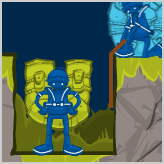
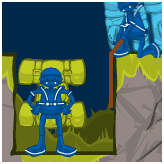
AMIS replaces NOUS

Changed region(s): [[0.0, 0.0, 1.0, 1.0]]

diff --git a/js/states/Game.min.js b/js/states/Game.min.js
@@ -1,1 +1,1 @@
-function create_goats(e){goats=Climb.game.add.group();for(var a=0;e>a;a++)create_goat(a)}function create_goat(e){var a=Climb.game.add.sprite(-60,0,"fpo-circle");a.anchor.set(0,1),a.width=a.height=10,a.alpha=0,a.grounded=!1,Climb.game.physics.arcade.enable([a]),a.body.gravity.y=GRAVITY,a.body.bounce.set(.2);var t=Climb.game.add.sprite(a.x,a.y,"goat");t.anchor.set(.5,1),t.animations.add("walk",[1,2,3,4,5,6,7],20,!0),t.animations.add("hop",[8,9,10,11,12],20,!0),a.art=t,goats.add(a),delay=0+1e4*e,setTimeout(function(){reset_goat(a)},delay)}function update_goats(){for(var e=0,a=goats.length;a>e;e++)update_goat(goats.children[e])}function update_goat(e){e.art.x=e.x,e.art.y=e.y,void 0!=e.lastX&&e.lastX==e.x&&e.grounded&&(e.body.velocity.y=-150),e.lastX=e.x;var a=Climb.game.physics.arcade.collide(goats,platforms,update_goat_platform,null,this);a||1==e.grounded&&(e.grounded=!1)}function update_goat_platform(e){e.x>1400?reset_goat(e):(e.grounded||(e.grounded=!0),e.art.animations.play("walk"),Math.abs(e.body.velocity.x)<30&&(e.body.velocity.x+=e.vX),e.body.velocity.y+=e.vY)}function reset_goat(e){if(goat_respawn){e.x=-60,e.y=900;var a=2*Math.round(Math.random())-1;a=1,e.art.width=Math.abs(e.art.width)*a*-1,e.vX=2*a,e.vY=-3,e.body.velocity.x=0,e.body.velocity.y=0}}function clear_goats(){for(var e=goats.length,a=e-1;a>=0;a--)null!=goats.children[a]&&(goats.children[a].art.destroy(),goats.children[a].destroy());goats=[]}function createPads(){pads=Climb.game.add.group(),pads.enableBody=!0,tPad=Climb.game.add.sprite(40,1096,"fpo-square"),createPad(tPad,"T",16541508),ePad=Climb.game.add.sprite(110,1096,"fpo-square"),createPad(ePad,"E",4900843),aPad=Climb.game.add.sprite(180,1096,"fpo-square"),createPad(aPad,"A",12700963),mPad=Climb.game.add.sprite(250,1096,"fpo-square"),createPad(mPad,"M",9668740),tPad2=Climb.game.add.sprite(1e3,396,"fpo-square"),createPad(tPad2,"T",16541508),ePad2=Climb.game.add.sprite(1070,396,"fpo-square"),createPad(ePad2,"E",4900843),aPad2=Climb.game.add.sprite(1140,396,"fpo-square"),createPad(aPad2,"A",12700963),mPad2=Climb.game.add.sprite(1210,396,"fpo-square"),createPad(mPad2,"M",9668740)}function createPad(e,a,t){e.width=69,e.height=10,e.name=a,e.tint=t,e.anchor.set(.5,1),e.name=String(e),pads.add(e)}function createOptionsScreen(){optionsScreen=Climb.game.add.group(),optionsScreen.fixedToCamera=!0;var e,a=Climb.game.add.graphics(0,0);a.beginFill(9668740,1),a.boundsPadding=0,a.drawRect(0,0,settings.WIDTH,settings.HEIGHT),a.alpha=.9,a.inputEnabled=!0,optionsScreen.add(a),e="Options",optionTitle=Climb.game.add.text(settings.WIDTH/2,settings.HEIGHT/2-200,e,h1_style),optionTitle.anchor.set(.5),optionsScreen.add(optionTitle),e="Votre jeu a été suspendu.",optionSub=Climb.game.add.text(settings.WIDTH/2,settings.HEIGHT/2-140,e,h3_style),optionSub.anchor.set(.5),optionsScreen.add(optionSub);var t=Climb.game.add.sprite(settings.WIDTH/2,settings.HEIGHT/2-40,"square");createBt(t,"Reprendre",!1),t.events.onInputUp.add(function(){optionsHide()},this),optionsScreen.add(t),optionsScreen.add(t.label),optionsScreen.add(t.border);var i=Climb.game.add.sprite(settings.WIDTH/2,settings.HEIGHT/2+20,"square");createBt(i,"Recommencer",!1),i.events.onInputUp.add(function(){optionsHide(),gameRestart()},this),optionsScreen.add(i),optionsScreen.add(i.label),optionsScreen.add(i.border);var o=Climb.game.add.sprite(settings.WIDTH/2,settings.HEIGHT/2+140,"square");createBt(o,"Menu principal","MainMenu"),optionsScreen.add(o),optionsScreen.add(o.label),optionsScreen.add(o.border);var r=Climb.game.add.sprite(settings.WIDTH/2,settings.HEIGHT/2+200,"square");createBt(r,"Comment jouer","Instructions"),optionsScreen.add(r),optionsScreen.add(r.label),optionsScreen.add(r.border);var n=Climb.game.add.sprite(settings.WIDTH-29,29,"square");createBt(n,"icon-x",!1,"circle"),n.events.onInputUp.add(function(){optionsHide()},this),optionsScreen.add(n),optionsScreen.add(n.label),optionsScreen.add(n.border),optionsScreen.visible=!1}function optionsShow(){gamePause(!0),optionsScreen.visible=!0}function optionsHide(){gamePause(!1),optionsScreen.visible=!1}function gamePause(e){if(gamePaused=e,e){for(var a=0;4>a;a++)team[a].body.allowGravity=!e,team[a].currentVelocity=team[a].body.velocity,team[a].body.velocity=0;pauseTimer()}else{for(var a=0;4>a;a++)team[a].body.allowGravity=!e,team[a].body.velocity=team[a].currentVelocity;unpauseTimer()}}function createWinText(){winMessage=Climb.game.add.group(),winMessage.fixedToCamera=!0;var e=Climb.game.add.graphics(0,0);e.inputEnabled=!0,e.beginFill(0,1),e.boundsPadding=0,e.drawRect(0,Climb.game.height/2-130,Climb.game.width,325),e.alpha=.6,winMessage.add(e);var a="Ton équipe a\natteint le sommet!";winText=Climb.game.add.text(settings.WIDTH/2,settings.HEIGHT/2-40,a,h2_style),winText.anchor.set(.5),winMessage.add(winText),ContinueBt=Climb.game.add.sprite(settings.WIDTH/2,settings.HEIGHT/2+60,"square"),createBt(ContinueBt,"Formidable ! Continuer","Finish"),winMessage.add(ContinueBt),winMessage.add(ContinueBt.label),winMessage.add(ContinueBt.border),AgainBt=Climb.game.add.sprite(settings.WIDTH/2,settings.HEIGHT/2+120,"square"),createBt(AgainBt,"Recommencer",!1),AgainBt.events.onInputUp.add(function(){winMessage.visible=!1,trackEvent("Play Again clicked",Vent.game.state.getCurrentState().key+" screen"),gameRestart()},this),winMessage.add(AgainBt),winMessage.add(AgainBt.label),winMessage.add(AgainBt.border),winMessage.visible=!1}function createBackground(){Climb.game.stage.backgroundColor="#4ac7eb",background=Climb.game.add.group();var e=background.create(0,0,"bg-mountains");e.height=settings.HEIGHT,e.width=settings.WIDTH,e.anchor.set(0),background.fixedToCamera=!0}function createPlatforms(){platforms=Climb.game.add.group(),platforms.enableBody=!0;var e=platforms.create(-100,Climb.game.world.height-100,"square");e.width=Climb.game.world.width+200,e.height=100,e.body.immovable=!0,e.tint=groundColour,e.name="ground",e.alpha=0,createPlatform(300,1e3,1100,1),createPlatform(400,900,150,1),createPlatform(650,900,750,1),createPlatform(800,700,600,2),createPlatform(900,400,500,3),topPlatform=platforms.children[5];var a=Climb.game.add.sprite(0,Climb.game.world.height+45,"fg-mountains");a.anchor.set(0,1)}function createPlatform(e,a,t,i){var o=100*i,r=platforms.children.length,n=platforms.create(e,a,"square");n.name="ledge"+r,n.width=t,n.height=o,n.hx=i,n.ropes=[],n.body.immovable=!0,n.alpha=0}function createClimbers(){climbers=Climb.game.add.group(),climbers.enableBody=!0;var e=Climb.game.world.height-300;T=climbers.create(4,e,"av-t"),T.key=T_Key,T.button=T_button,T.name="N",createClimber(T),E=climbers.create(74,e,"av-e"),E.key=E_Key,E.button=E_button,E.name="O",createClimber(E),A=climbers.create(144,e,"av-a"),A.key=A_Key,A.button=A_button,A.name="U",createClimber(A),M=climbers.create(214,e,"av-m"),M.key=M_Key,M.button=M_button,M.name="S",createClimber(M)}function createClimber(e){e.width=72,e.height=100,e.body.collideWorldBounds=!0,e.body.gravity.y=GRAVITY,e.tint=defaultColour,e.platform=platforms.children[0],e.rope,e.moving=!1,e.lastX=e.x,e.lastY=e.y,e.keyUp=!1,e.keyDown=!1,e.holdingUp=[],e.frame=1,e.animations.add("hop",[3,4,5,6,7,8,9],30,!1),team.push(e)}function createRopes(){ropes=Climb.game.add.group(),ropes.enableBody=!0}function createRope(e){var a=e.platform,t=a.ropes.length;if(t<e.platform.hx){var i,o=e.platform.x-2*ROPE_WIDTH;0===t?i=e.y+e.height/2:(i=a.ropes[t-1].rope.y+100,o=a.ropes[t-1].rope.x);var r=ropes.create(o,i,"square");r.tint=9127187,r.width=ROPE_WIDTH,r.height=e.height,r.climber=e,r.platform=a,e.rope=r,e.platform.ropes.push(e),r.alpha=0,beautifyRopes()}}function beautifyRopes(){if(null!=ropeArt&&(ropeArt.destroy(),ropeArt=void 0),ropes.children.length>0)for(var e,a,t,i=0,o=ropes.children.length;o>i;i++)if(e=ropes.children[i],a=e.climber,t=a.platform,rNum=t.ropes.length,50===Math.round(e.climber.rope.y-t.ropes[0].y)){var r,n=t.y-50+100*rNum,m=t.ropes[0].x+21,d=a.y+a.height-18;ropeArt=Climb.game.add.graphics(0,0),ropeArt.lineStyle(4,9127187),ropeArt.moveTo(m,d),m<t.x-4?ropeArt.lineTo(m,n):(r=t.x-4,ropeArt.lineTo(t.x-4,t.y-4),ropeArt.lineTo(r,n))}}function rebuildRope(e){for(var a,t,i,o=e.ropes.length,r=0;o>r;r++)a=e.ropes[r],t=a.rope,0==r&&(i=a.y+a.height/2),t.x=e.x-2*ROPE_WIDTH,t.y=i+r*a.height}function deleteRope(e){if(void 0!=e.rope){e.rope.destroy(),e.rope=void 0;for(var a,t=e.platform,i=t.ropes.length,o=0;i>o;o++)t.ropes[o]==e&&(a=o);1>=i?t.ropes=[]:(t.ropes.splice(a,1),rebuildRope(t))}beautifyRopes()}function createInputs(){createInputKeys(),createInputButtons()}function createInputKeys(){T_Key=Climb.game.input.keyboard.addKey(Phaser.Keyboard.N),T_Key.onDown.add(keyDown,this),T_Key.onUp.add(keyUp,this),T_Key.climber=T,T.key=T_Key,E_Key=Climb.game.input.keyboard.addKey(Phaser.Keyboard.O),E_Key.onDown.add(keyDown,this),E_Key.onUp.add(keyUp,this),E_Key.climber=E,E.key=E_Key,A_Key=Climb.game.input.keyboard.addKey(Phaser.Keyboard.U),A_Key.onDown.add(keyDown,this),A_Key.onUp.add(keyUp,this),A_Key.climber=A,A.key=A_Key,M_Key=Climb.game.input.keyboard.addKey(Phaser.Keyboard.S),M_Key.onDown.add(keyDown,this),M_Key.onUp.add(keyUp,this),M_Key.climber=M,M.key=M_Key,Left_Key=Climb.game.input.keyboard.addKey(Phaser.Keyboard.LEFT),Left_Key.onUp.add(leftKeyUp,this),Right_Key=Climb.game.input.keyboard.addKey(Phaser.Keyboard.RIGHT),Right_Key.onUp.add(rightKeyUp,this)}function createInputButtons(){userinterface=Climb.game.add.group(),userinterface.fixedToCamera=!0,touchinterface=Climb.game.add.group(),touchinterface.fixedToCamera=!0;Climb.game.world.height-50;T_button=Climb.game.add.sprite(50,Climb.game.height-200,"circle"),createButton(T_button,T),E_button=Climb.game.add.sprite(150,Climb.game.height-50,"circle"),createButton(E_button,E),A_button=Climb.game.add.sprite(Climb.game.width-150,Climb.game.height-50,"circle"),createButton(A_button,A),M_button=Climb.game.add.sprite(Climb.game.width-50,Climb.game.height-200,"circle"),createButton(M_button,M),toggleLR=Climb.game.add.sprite(Climb.game.width-89,29,"square"),createBt(toggleLR,"icon-walk-right",!1,"circle"),toggleLR.events.onInputUp.add(toggleDirection,this),userinterface.add(toggleLR.group),optionsBt=Climb.game.add.sprite(Climb.game.width-29,29,"square"),createBt(optionsBt,"icon-menu",!1,"circle"),optionsBt.events.onInputUp.add(optionsShow,this),userinterface.add(optionsBt.group),Climb.game.device.touch&&(touchinterface.visible=!1)}function toggleDirection(){X_MOVE=-1*X_MOVE,X_MOVE_EDGE=-1*X_MOVE_EDGE,toggleLR.label.width=X_MOVE>0?Math.abs(toggleLR.label.width):-1*toggleLR.label.width}function leftKeyUp(){X_MOVE>0&&(toggleLR.label.width=-1*Math.abs(toggleLR.label.width),X_MOVE=-1*X_MOVE,X_MOVE_EDGE=-1*X_MOVE_EDGE)}function rightKeyUp(){X_MOVE>0||(toggleLR.label.width=Math.abs(toggleLR.label.width),X_MOVE=-1*X_MOVE,X_MOVE_EDGE=-1*X_MOVE_EDGE)}function toggleDirectionReset(){X_MOVE=Math.abs(X_MOVE),X_MOVE_EDGE=Math.abs(X_MOVE_EDGE),toggleLR.width=Math.abs(toggleLR.width)}function createButton(e,a){e.width=100,e.height=100,e.anchor.set(.5),e.alpha=.2,e.inputEnabled=!0,e.input.useHandCursor=!0,e.input.priorityID=buttons.length,e.events.onInputDown.add(buttonDown,this),e.events.onInputUp.add(buttonUp,this),e.climber=a,a.button=e,buttons.push(e);var t=Climb.game.add.graphics(0,0);t.lineStyle(2,16777215,1),t.drawCircle(e.x,e.y,e.width,e.height),t.boundsPadding=0,t.alpha=1,e.border=t;var i=Climb.game.add.text(e.x,e.y,a.name,touch_button_style);i.anchor.set(.5),e.label=i,touchinterface.add(e),touchinterface.add(e.border),touchinterface.add(e.label)}function createTimer(){timer=Climb.game.add.text(15,34,"0.00",h2_style),timer.anchor.set(0,.5),userinterface.add(timer),best=Climb.game.add.text(17,58,"MEILLEUR : "+bestTime,copyright_style),best.anchor.set(0,.5),userinterface.add(best),null==bestTime&&(best.text="MEILLEUR : 0.0")}function startTimer(){gameStarted=!0,timeStart=(new Date).getTime()/1e3}function updateTimer(){if(gameStarted){if(!gameComplete){var e=(new Date).getTime()/1e3;currentTime=(e-(timeStart+timePaused)).toFixed(1),timer.text=currentTime}}else timer.text="0.0"}function pauseTimer(){pauseStart=(new Date).getTime()/1e3}function unpauseTimer(){pauseEnd=(new Date).getTime()/1e3,gameStarted&&(timePaused=Number((Number(timePaused)+pauseEnd-pauseStart).toFixed(2)))}function updateClimbers(){Climb.game.physics.arcade.collide(climbers,platforms,updateClimberPlatform,null,this);for(var e=0,a=team.length;a>e;e++)updateClimber(team[e])}function updateClimber(e){e.lastX=e.x,e.lastY=e.y,e.body.velocity.x>0?e.body.velocity.x-=5:e.body.velocity.x<0?e.body.velocity.x+=5:e.body.velocity.x=0,0!==e.body.velocity.x||0!==e.body.velocity.y?e.moving=!0:(e.moving=!1,updatePads()),e.keyUp?(deleteRope(e),e.body.velocity.x=e.x<e.platform.x?X_MOVE_EDGE:X_MOVE,e.body.touching.down&&(e.body.velocity.y+=Y_HOP),Climb.game.physics.arcade.overlap(e,climbers,overlapClimbersKeyUp),Climb.game.physics.arcade.overlap(e,ropes,overlapRope)):e.keyDown&&(!e.moving&&e.x<e.platform.x&&void 0===e.rope&&(createRope(e),beautifyRopes()),Climb.game.physics.arcade.overlap(e,climbers,overlapClimbersKeyIsDown)),updateClimberHoldingUpList(e),updateClimberDisplay(e)}function updatePads(){T.moving||(Climb.game.physics.arcade.overlap(T,tPad,function(){T.frame=0}),Climb.game.physics.arcade.overlap(T,tPad2,function(){T.frame=0})),E.moving||(Climb.game.physics.arcade.overlap(E,ePad,function(){E.frame=0}),Climb.game.physics.arcade.overlap(E,ePad2,function(){E.frame=0})),A.moving||(Climb.game.physics.arcade.overlap(A,aPad,function(){A.frame=0}),Climb.game.physics.arcade.overlap(A,aPad2,function(){A.frame=0})),M.moving||(Climb.game.physics.arcade.overlap(M,mPad,function(){M.frame=0}),Climb.game.physics.arcade.overlap(M,mPad2,function(){M.frame=0}))}function updateClimberHoldingUpList(e){for(var a=0,t=e.holdingUp.length;t>a;a++){var i=e.holdingUp[a];(i.x>e.x+e.width||i.x<e.x-e.width)&&(i.body.allowGravity=!0)}}function updateClimberDisplay(e){e.keyDown?(e.isPlaying&&e.animations.stop("hop"),void 0!==e.rope?e.frame=12:e.moving||void 0!==e.rope?e.moving||(e.animations.play("hop"),e.animations.currentAnim.onComplete.addOnce(function(){e.frame=1},this)):e.frame=2):e.keyUp&&(climbers.bringToTop(e),e.animations.play("hop"),e.animations.currentAnim.onComplete.addOnce(function(){e.frame=1},this),e.keyUp=!1)}function updateClimberPlatform(e,a){!e.moving&&e.platform!=a&&e.y+50<a.y&&(e.platform=a,gameCheckWin())}function overlapClimbersKeyUp(e,a){for(var t=0,i=e.holdingUp.length;i>t;t++)e.holdingUp[t].body.allowGravity=!0,a.body.velocity.y=-20,a.moving=!0;e.holdingUp=[],e!==a&&!a.moving&&a.keyDown&&void 0===a.rope&&e.moving&&Math.abs(e.x-a.x)<=e.width/2&&(e.body.velocity.y=Y_CLIMB,e.body.velocity.x=X_MOVE/2)}function overlapClimbersKeyIsDown(e,a){e!==a&&!e.moving&&e.keyDown&&a.y<=e.y-a.height&&(a.y=e.y-a.height,a.body.velocity.y=0,a.body.allowGravity=!1,e.holdingUp.push(a),a.moving=!1)}function overlapRope(e){e.body.allowGravity=!0,e.body.velocity.y=Y_CLIMB,e.moving=!0}function gameRestart(){clear_goats(),create_goats(),winText.visible=!1,Climb.game.device.touch&&(touchinterface.visible=!0),Climb.game.camera.x=0,Climb.game.camera.y=Climb.game.world.height-settings.HEIGHT,T.x=T.lastX=4,T.y=T.lastY=Climb.game.world.height-300,T.platform="ground",E.x=E.lastX=74,E.y=E.lastY=Climb.game.world.height-300,E.platform="ground",A.x=A.lastX=144,A.y=A.lastY=Climb.game.world.height-300,A.platform="ground",M.x=M.lastX=214,M.y=M.lastY=Climb.game.world.height-300,M.platform="ground",userinterface.visible=!0,toggleDirectionReset(),gameStarted=!1,gameComplete=!1,timer.text="0.00",timePaused=0}function gameCheckWin(){for(var e,a=!0,t=climbers.children.length,e=0;t>e;e++)climbers.children[e].platform!=topPlatform&&(a=!1),(0!=T.frame||0!=E.frame||0!=A.frame||0!=M.frame)&&(a=!1);a&&gameWin()}function gameWin(){null!=ropeArt&&(ropeArt.destroy(),ropeArt=void 0),clear_goats(),winMessage.visible=!0,touchinterface.visible&&(touchinterface.visible=!1),userinterface.visible=!1,gameComplete=!0,(Number(currentTime)<=bestTime||null==bestTime)&&(bestTime=currentTime,best.text="MEILLEUR : "+bestTime)}function keyDown(e){var a=e.climber;a.keyUp=!1,a.keyDown=!0,climbers.bringToTop(a),a.button.tint=isDownColour}function keyUp(e){var a=e.climber;a.keyDown=!1,a.keyUp=!0,a.body.allowGravity=!0,a.button.tint=noColour,gameStarted||startTimer()}function buttonDown(e){var a=e.climber;a.keyUp=!1,a.keyDown=!0,e.tint=isDownColour}function buttonUp(e){var a=e.climber;a.keyDown=!1,a.keyUp=!0,e.tint=noColour,gameStarted||startTimer()}function camera_center(){if(T.x){for(var e,a,t=T.y,i=T.y,o=T.x,r=T.x,n=0,m=team.length;m>n;n++)e=team[n].y,a=team[n].x,t>e&&(t=e),e>i&&(i=e),o>a&&(o=a),a>r&&(r=a);teamCenter.x=(o+r)/2-settings.WIDTH/2,teamCenter.y=(t+i)/2-settings.HEIGHT/2}}function camera_follow_team(){var e=Climb.game.camera.x,a=Climb.game.camera.y,t=teamCenter.x,i=teamCenter.y,o=.05;Math.abs(e-t)>.1&&Math.abs(a-i)>.1&&(Climb.game.camera.x=e+(t-e)*o,Climb.game.camera.y=a+(i-a)*o)}function drag_camera(e){e.timeDown&&(e.isDown&&!e.targetObject&&(o_camera&&(camVelX=(o_camera.x-e.position.x)*cameraAccel,camVelY=(o_camera.y-e.position.y)*cameraAccel),o_camera=e.position.clone()),e.isUp&&(o_camera=null))}function update_camera(){camVelX=clamp(camVelX,camMaxSpeed,-camMaxSpeed),camVelY=clamp(camVelY,camMaxSpeed,-camMaxSpeed),Climb.game.camera.x+=camVelX,Climb.game.camera.y+=camVelY,camVelX>cameraDrag?camVelX-=cameraDrag:-cameraDrag>camVelX?camVelX+=cameraDrag:camVelX=0,camVelY>cameraDrag?camVelY-=cameraDrag:-cameraDrag>camVelY?camVelY+=cameraDrag:camVelY=0}function clamp(e,a,t){var i=e;return i>a?i=a:t>i&&(i=t),i}var Climb=Climb||{},T,E,A,M,tT,tE,tA,tM,timer,goat,T_Key,E_Key,A_Key,M_Key,Left_Key,Right_Key,T_button,E_button,A_button,M_button,toggleLR,ropeArt=null,climbers,platforms,ropes,optionsScreen,winMessage,userinterface,touchinterface,background,rope_group,pads,goats,tPad,ePad,aPad,mPad,tPad2,ePad2,aPad2,mPad2,team=[],buttons=[],GRAVITY=225,X_MOVE=110,X_MOVE_EDGE=X_MOVE/2,Y_CLIMB=-80,Y_HOP=-25,goat_respawn=!0,ROPE_WIDTH=5,topPlatform,currentTime,gameStarted=!1,gameComplete=!1,gamePaused,timeStart,timeEnd,timeBefore,timePaused,pauseStart,winText,o_camera,cameraDrag=5,cameraAccel=3,camVelX=0,camVelY=0,camMaxSpeed=80,camTween,teamCenter;Climb.Game=function(){},Climb.Game.prototype={init:function(){team=[],gameStarted=!1,gameComplete=!1,gamePaused=!1,timePaused=0,this.game.world.resize(1400,1200),this.game.camera.x=0,this.game.camera.y=this.game.world.height},preload:function(){},create:function(){teamCenter=new Phaser.Point(0,0),this.game.physics.startSystem(Phaser.Physics.ARCADE),createBackground(),createPlatforms(),createPads(),createClimbers(),createRopes(),create_goats(3),createInputs(),createWinText(),createTimer(),createOptionsScreen(),camera_center(),camera_follow_team(),createCopyright()},update:function(){gamePaused||(updateClimbers(),updateTimer(),update_goats(),camera_center(),camera_follow_team(),gameComplete||gameCheckWin())}};
+function create_goats(e){goats=Climb.game.add.group();for(var a=0;e>a;a++)create_goat(a)}function create_goat(e){var a=Climb.game.add.sprite(-60,0,"fpo-circle");a.anchor.set(0,1),a.width=a.height=10,a.alpha=0,a.grounded=!1,Climb.game.physics.arcade.enable([a]),a.body.gravity.y=GRAVITY,a.body.bounce.set(.2);var t=Climb.game.add.sprite(a.x,a.y,"goat");t.anchor.set(.5,1),t.animations.add("walk",[1,2,3,4,5,6,7],20,!0),t.animations.add("hop",[8,9,10,11,12],20,!0),a.art=t,goats.add(a),delay=0+1e4*e,setTimeout(function(){reset_goat(a)},delay)}function update_goats(){for(var e=0,a=goats.length;a>e;e++)update_goat(goats.children[e])}function update_goat(e){e.art.x=e.x,e.art.y=e.y,void 0!=e.lastX&&e.lastX==e.x&&e.grounded&&(e.body.velocity.y=-150),e.lastX=e.x;var a=Climb.game.physics.arcade.collide(goats,platforms,update_goat_platform,null,this);a||1==e.grounded&&(e.grounded=!1)}function update_goat_platform(e){e.x>1400?reset_goat(e):(e.grounded||(e.grounded=!0),e.art.animations.play("walk"),Math.abs(e.body.velocity.x)<30&&(e.body.velocity.x+=e.vX),e.body.velocity.y+=e.vY)}function reset_goat(e){if(goat_respawn){e.x=-60,e.y=900;var a=2*Math.round(Math.random())-1;a=1,e.art.width=Math.abs(e.art.width)*a*-1,e.vX=2*a,e.vY=-3,e.body.velocity.x=0,e.body.velocity.y=0}}function clear_goats(){for(var e=goats.length,a=e-1;a>=0;a--)null!=goats.children[a]&&(goats.children[a].art.destroy(),goats.children[a].destroy());goats=[]}function createPads(){pads=Climb.game.add.group(),pads.enableBody=!0,tPad=Climb.game.add.sprite(40,1096,"fpo-square"),createPad(tPad,"T",16541508),ePad=Climb.game.add.sprite(110,1096,"fpo-square"),createPad(ePad,"E",4900843),aPad=Climb.game.add.sprite(180,1096,"fpo-square"),createPad(aPad,"A",12700963),mPad=Climb.game.add.sprite(250,1096,"fpo-square"),createPad(mPad,"M",9668740),tPad2=Climb.game.add.sprite(1e3,396,"fpo-square"),createPad(tPad2,"T",16541508),ePad2=Climb.game.add.sprite(1070,396,"fpo-square"),createPad(ePad2,"E",4900843),aPad2=Climb.game.add.sprite(1140,396,"fpo-square"),createPad(aPad2,"A",12700963),mPad2=Climb.game.add.sprite(1210,396,"fpo-square"),createPad(mPad2,"M",9668740)}function createPad(e,a,t){e.width=69,e.height=10,e.name=a,e.tint=t,e.anchor.set(.5,1),e.name=String(e),pads.add(e)}function createOptionsScreen(){optionsScreen=Climb.game.add.group(),optionsScreen.fixedToCamera=!0;var e,a=Climb.game.add.graphics(0,0);a.beginFill(9668740,1),a.boundsPadding=0,a.drawRect(0,0,settings.WIDTH,settings.HEIGHT),a.alpha=.9,a.inputEnabled=!0,optionsScreen.add(a),e="Options",optionTitle=Climb.game.add.text(settings.WIDTH/2,settings.HEIGHT/2-200,e,h1_style),optionTitle.anchor.set(.5),optionsScreen.add(optionTitle),e="Votre jeu a été suspendu.",optionSub=Climb.game.add.text(settings.WIDTH/2,settings.HEIGHT/2-140,e,h3_style),optionSub.anchor.set(.5),optionsScreen.add(optionSub);var t=Climb.game.add.sprite(settings.WIDTH/2,settings.HEIGHT/2-40,"square");createBt(t,"Reprendre",!1),t.events.onInputUp.add(function(){optionsHide()},this),optionsScreen.add(t),optionsScreen.add(t.label),optionsScreen.add(t.border);var i=Climb.game.add.sprite(settings.WIDTH/2,settings.HEIGHT/2+20,"square");createBt(i,"Recommencer",!1),i.events.onInputUp.add(function(){optionsHide(),gameRestart()},this),optionsScreen.add(i),optionsScreen.add(i.label),optionsScreen.add(i.border);var o=Climb.game.add.sprite(settings.WIDTH/2,settings.HEIGHT/2+140,"square");createBt(o,"Menu principal","MainMenu"),optionsScreen.add(o),optionsScreen.add(o.label),optionsScreen.add(o.border);var r=Climb.game.add.sprite(settings.WIDTH/2,settings.HEIGHT/2+200,"square");createBt(r,"Comment jouer","Instructions"),optionsScreen.add(r),optionsScreen.add(r.label),optionsScreen.add(r.border);var n=Climb.game.add.sprite(settings.WIDTH-29,29,"square");createBt(n,"icon-x",!1,"circle"),n.events.onInputUp.add(function(){optionsHide()},this),optionsScreen.add(n),optionsScreen.add(n.label),optionsScreen.add(n.border),optionsScreen.visible=!1}function optionsShow(){gamePause(!0),optionsScreen.visible=!0}function optionsHide(){gamePause(!1),optionsScreen.visible=!1}function gamePause(e){if(gamePaused=e,e){for(var a=0;4>a;a++)team[a].body.allowGravity=!e,team[a].currentVelocity=team[a].body.velocity,team[a].body.velocity=0;pauseTimer()}else{for(var a=0;4>a;a++)team[a].body.allowGravity=!e,team[a].body.velocity=team[a].currentVelocity;unpauseTimer()}}function createWinText(){winMessage=Climb.game.add.group(),winMessage.fixedToCamera=!0;var e=Climb.game.add.graphics(0,0);e.inputEnabled=!0,e.beginFill(0,1),e.boundsPadding=0,e.drawRect(0,Climb.game.height/2-130,Climb.game.width,325),e.alpha=.6,winMessage.add(e);var a="Ton équipe a\natteint le sommet!";winText=Climb.game.add.text(settings.WIDTH/2,settings.HEIGHT/2-40,a,h2_style),winText.anchor.set(.5),winMessage.add(winText),ContinueBt=Climb.game.add.sprite(settings.WIDTH/2,settings.HEIGHT/2+60,"square"),createBt(ContinueBt,"Formidable ! Continuer","Finish"),winMessage.add(ContinueBt),winMessage.add(ContinueBt.label),winMessage.add(ContinueBt.border),AgainBt=Climb.game.add.sprite(settings.WIDTH/2,settings.HEIGHT/2+120,"square"),createBt(AgainBt,"Recommencer",!1),AgainBt.events.onInputUp.add(function(){winMessage.visible=!1,trackEvent("Play Again clicked",Vent.game.state.getCurrentState().key+" screen"),gameRestart()},this),winMessage.add(AgainBt),winMessage.add(AgainBt.label),winMessage.add(AgainBt.border),winMessage.visible=!1}function createBackground(){Climb.game.stage.backgroundColor="#4ac7eb",background=Climb.game.add.group();var e=background.create(0,0,"bg-mountains");e.height=settings.HEIGHT,e.width=settings.WIDTH,e.anchor.set(0),background.fixedToCamera=!0}function createPlatforms(){platforms=Climb.game.add.group(),platforms.enableBody=!0;var e=platforms.create(-100,Climb.game.world.height-100,"square");e.width=Climb.game.world.width+200,e.height=100,e.body.immovable=!0,e.tint=groundColour,e.name="ground",e.alpha=0,createPlatform(300,1e3,1100,1),createPlatform(400,900,150,1),createPlatform(650,900,750,1),createPlatform(800,700,600,2),createPlatform(900,400,500,3),topPlatform=platforms.children[5];var a=Climb.game.add.sprite(0,Climb.game.world.height+45,"fg-mountains");a.anchor.set(0,1)}function createPlatform(e,a,t,i){var o=100*i,r=platforms.children.length,n=platforms.create(e,a,"square");n.name="ledge"+r,n.width=t,n.height=o,n.hx=i,n.ropes=[],n.body.immovable=!0,n.alpha=0}function createClimbers(){climbers=Climb.game.add.group(),climbers.enableBody=!0;var e=Climb.game.world.height-300;T=climbers.create(4,e,"av-a"),T.key=T_Key,T.button=T_button,T.name="A",createClimber(T),E=climbers.create(74,e,"av-m"),E.key=E_Key,E.button=E_button,E.name="M",createClimber(E),A=climbers.create(144,e,"av-i"),A.key=A_Key,A.button=A_button,A.name="I",createClimber(A),M=climbers.create(214,e,"av-s"),M.key=M_Key,M.button=M_button,M.name="S",createClimber(M)}function createClimber(e){e.width=72,e.height=100,e.body.collideWorldBounds=!0,e.body.gravity.y=GRAVITY,e.tint=defaultColour,e.platform=platforms.children[0],e.rope,e.moving=!1,e.lastX=e.x,e.lastY=e.y,e.keyUp=!1,e.keyDown=!1,e.holdingUp=[],e.frame=1,e.animations.add("hop",[3,4,5,6,7,8,9],30,!1),team.push(e)}function createRopes(){ropes=Climb.game.add.group(),ropes.enableBody=!0}function createRope(e){var a=e.platform,t=a.ropes.length;if(t<e.platform.hx){var i,o=e.platform.x-2*ROPE_WIDTH;0===t?i=e.y+e.height/2:(i=a.ropes[t-1].rope.y+100,o=a.ropes[t-1].rope.x);var r=ropes.create(o,i,"square");r.tint=9127187,r.width=ROPE_WIDTH,r.height=e.height,r.climber=e,r.platform=a,e.rope=r,e.platform.ropes.push(e),r.alpha=0,beautifyRopes()}}function beautifyRopes(){if(null!=ropeArt&&(ropeArt.destroy(),ropeArt=void 0),ropes.children.length>0)for(var e,a,t,i=0,o=ropes.children.length;o>i;i++)if(e=ropes.children[i],a=e.climber,t=a.platform,rNum=t.ropes.length,50===Math.round(e.climber.rope.y-t.ropes[0].y)){var r,n=t.y-50+100*rNum,m=t.ropes[0].x+21,d=a.y+a.height-18;ropeArt=Climb.game.add.graphics(0,0),ropeArt.lineStyle(4,9127187),ropeArt.moveTo(m,d),m<t.x-4?ropeArt.lineTo(m,n):(r=t.x-4,ropeArt.lineTo(t.x-4,t.y-4),ropeArt.lineTo(r,n))}}function rebuildRope(e){for(var a,t,i,o=e.ropes.length,r=0;o>r;r++)a=e.ropes[r],t=a.rope,0==r&&(i=a.y+a.height/2),t.x=e.x-2*ROPE_WIDTH,t.y=i+r*a.height}function deleteRope(e){if(void 0!=e.rope){e.rope.destroy(),e.rope=void 0;for(var a,t=e.platform,i=t.ropes.length,o=0;i>o;o++)t.ropes[o]==e&&(a=o);1>=i?t.ropes=[]:(t.ropes.splice(a,1),rebuildRope(t))}beautifyRopes()}function createInputs(){createInputKeys(),createInputButtons()}function createInputKeys(){T_Key=Climb.game.input.keyboard.addKey(Phaser.Keyboard.A),T_Key.onDown.add(keyDown,this),T_Key.onUp.add(keyUp,this),T_Key.climber=T,T.key=T_Key,E_Key=Climb.game.input.keyboard.addKey(Phaser.Keyboard.M),E_Key.onDown.add(keyDown,this),E_Key.onUp.add(keyUp,this),E_Key.climber=E,E.key=E_Key,A_Key=Climb.game.input.keyboard.addKey(Phaser.Keyboard.I),A_Key.onDown.add(keyDown,this),A_Key.onUp.add(keyUp,this),A_Key.climber=A,A.key=A_Key,M_Key=Climb.game.input.keyboard.addKey(Phaser.Keyboard.S),M_Key.onDown.add(keyDown,this),M_Key.onUp.add(keyUp,this),M_Key.climber=M,M.key=M_Key,Left_Key=Climb.game.input.keyboard.addKey(Phaser.Keyboard.LEFT),Left_Key.onUp.add(leftKeyUp,this),Right_Key=Climb.game.input.keyboard.addKey(Phaser.Keyboard.RIGHT),Right_Key.onUp.add(rightKeyUp,this)}function createInputButtons(){userinterface=Climb.game.add.group(),userinterface.fixedToCamera=!0,touchinterface=Climb.game.add.group(),touchinterface.fixedToCamera=!0;Climb.game.world.height-50;T_button=Climb.game.add.sprite(50,Climb.game.height-200,"circle"),createButton(T_button,T),E_button=Climb.game.add.sprite(150,Climb.game.height-50,"circle"),createButton(E_button,E),A_button=Climb.game.add.sprite(Climb.game.width-150,Climb.game.height-50,"circle"),createButton(A_button,A),M_button=Climb.game.add.sprite(Climb.game.width-50,Climb.game.height-200,"circle"),createButton(M_button,M),toggleLR=Climb.game.add.sprite(Climb.game.width-89,29,"square"),createBt(toggleLR,"icon-walk-right",!1,"circle"),toggleLR.events.onInputUp.add(toggleDirection,this),userinterface.add(toggleLR.group),optionsBt=Climb.game.add.sprite(Climb.game.width-29,29,"square"),createBt(optionsBt,"icon-menu",!1,"circle"),optionsBt.events.onInputUp.add(optionsShow,this),userinterface.add(optionsBt.group),Climb.game.device.touch||(touchinterface.visible=!1)}function toggleDirection(){X_MOVE=-1*X_MOVE,X_MOVE_EDGE=-1*X_MOVE_EDGE,toggleLR.label.width=X_MOVE>0?Math.abs(toggleLR.label.width):-1*toggleLR.label.width}function leftKeyUp(){X_MOVE>0&&(toggleLR.label.width=-1*Math.abs(toggleLR.label.width),X_MOVE=-1*X_MOVE,X_MOVE_EDGE=-1*X_MOVE_EDGE)}function rightKeyUp(){X_MOVE>0||(toggleLR.label.width=Math.abs(toggleLR.label.width),X_MOVE=-1*X_MOVE,X_MOVE_EDGE=-1*X_MOVE_EDGE)}function toggleDirectionReset(){X_MOVE=Math.abs(X_MOVE),X_MOVE_EDGE=Math.abs(X_MOVE_EDGE),toggleLR.width=Math.abs(toggleLR.width)}function createButton(e,a){e.width=100,e.height=100,e.anchor.set(.5),e.alpha=.2,e.inputEnabled=!0,e.input.useHandCursor=!0,e.input.priorityID=buttons.length,e.events.onInputDown.add(buttonDown,this),e.events.onInputUp.add(buttonUp,this),e.climber=a,a.button=e,buttons.push(e);var t=Climb.game.add.graphics(0,0);t.lineStyle(2,16777215,1),t.drawCircle(e.x,e.y,e.width,e.height),t.boundsPadding=0,t.alpha=1,e.border=t;var i=Climb.game.add.text(e.x,e.y,a.name,touch_button_style);i.anchor.set(.5),e.label=i,touchinterface.add(e),touchinterface.add(e.border),touchinterface.add(e.label)}function createTimer(){timer=Climb.game.add.text(15,34,"0.00",h2_style),timer.anchor.set(0,.5),userinterface.add(timer),best=Climb.game.add.text(17,58,"MEILLEUR : "+bestTime,copyright_style),best.anchor.set(0,.5),userinterface.add(best),null==bestTime&&(best.text="MEILLEUR : 0.0")}function startTimer(){gameStarted=!0,timeStart=(new Date).getTime()/1e3}function updateTimer(){if(gameStarted){if(!gameComplete){var e=(new Date).getTime()/1e3;currentTime=(e-(timeStart+timePaused)).toFixed(1),timer.text=currentTime}}else timer.text="0.0"}function pauseTimer(){pauseStart=(new Date).getTime()/1e3}function unpauseTimer(){pauseEnd=(new Date).getTime()/1e3,gameStarted&&(timePaused=Number((Number(timePaused)+pauseEnd-pauseStart).toFixed(2)))}function updateClimbers(){Climb.game.physics.arcade.collide(climbers,platforms,updateClimberPlatform,null,this);for(var e=0,a=team.length;a>e;e++)updateClimber(team[e])}function updateClimber(e){e.lastX=e.x,e.lastY=e.y,e.body.velocity.x>0?e.body.velocity.x-=5:e.body.velocity.x<0?e.body.velocity.x+=5:e.body.velocity.x=0,0!==e.body.velocity.x||0!==e.body.velocity.y?e.moving=!0:(e.moving=!1,updatePads()),e.keyUp?(deleteRope(e),e.body.velocity.x=e.x<e.platform.x?X_MOVE_EDGE:X_MOVE,e.body.touching.down&&(e.body.velocity.y+=Y_HOP),Climb.game.physics.arcade.overlap(e,climbers,overlapClimbersKeyUp),Climb.game.physics.arcade.overlap(e,ropes,overlapRope)):e.keyDown&&(!e.moving&&e.x<e.platform.x&&void 0===e.rope&&(createRope(e),beautifyRopes()),Climb.game.physics.arcade.overlap(e,climbers,overlapClimbersKeyIsDown)),updateClimberHoldingUpList(e),updateClimberDisplay(e)}function updatePads(){T.moving||(Climb.game.physics.arcade.overlap(T,tPad,function(){T.frame=0}),Climb.game.physics.arcade.overlap(T,tPad2,function(){T.frame=0})),E.moving||(Climb.game.physics.arcade.overlap(E,ePad,function(){E.frame=0}),Climb.game.physics.arcade.overlap(E,ePad2,function(){E.frame=0})),A.moving||(Climb.game.physics.arcade.overlap(A,aPad,function(){A.frame=0}),Climb.game.physics.arcade.overlap(A,aPad2,function(){A.frame=0})),M.moving||(Climb.game.physics.arcade.overlap(M,mPad,function(){M.frame=0}),Climb.game.physics.arcade.overlap(M,mPad2,function(){M.frame=0}))}function updateClimberHoldingUpList(e){for(var a=0,t=e.holdingUp.length;t>a;a++){var i=e.holdingUp[a];(i.x>e.x+e.width||i.x<e.x-e.width)&&(i.body.allowGravity=!0)}}function updateClimberDisplay(e){e.keyDown?(e.isPlaying&&e.animations.stop("hop"),void 0!==e.rope?e.frame=12:e.moving||void 0!==e.rope?e.moving||(e.animations.play("hop"),e.animations.currentAnim.onComplete.addOnce(function(){e.frame=1},this)):e.frame=2):e.keyUp&&(climbers.bringToTop(e),e.animations.play("hop"),e.animations.currentAnim.onComplete.addOnce(function(){e.frame=1},this),e.keyUp=!1)}function updateClimberPlatform(e,a){!e.moving&&e.platform!=a&&e.y+50<a.y&&(e.platform=a,gameCheckWin())}function overlapClimbersKeyUp(e,a){for(var t=0,i=e.holdingUp.length;i>t;t++)e.holdingUp[t].body.allowGravity=!0,a.body.velocity.y=-20,a.moving=!0;e.holdingUp=[],e!==a&&!a.moving&&a.keyDown&&void 0===a.rope&&e.moving&&Math.abs(e.x-a.x)<=e.width/2&&(e.body.velocity.y=Y_CLIMB,e.body.velocity.x=X_MOVE/2)}function overlapClimbersKeyIsDown(e,a){e!==a&&!e.moving&&e.keyDown&&a.y<=e.y-a.height&&(a.y=e.y-a.height,a.body.velocity.y=0,a.body.allowGravity=!1,e.holdingUp.push(a),a.moving=!1)}function overlapRope(e){e.body.allowGravity=!0,e.body.velocity.y=Y_CLIMB,e.moving=!0}function gameRestart(){clear_goats(),create_goats(),winText.visible=!1,Climb.game.device.touch&&(touchinterface.visible=!0),Climb.game.camera.x=0,Climb.game.camera.y=Climb.game.world.height-settings.HEIGHT,T.x=T.lastX=4,T.y=T.lastY=Climb.game.world.height-300,T.platform="ground",E.x=E.lastX=74,E.y=E.lastY=Climb.game.world.height-300,E.platform="ground",A.x=A.lastX=144,A.y=A.lastY=Climb.game.world.height-300,A.platform="ground",M.x=M.lastX=214,M.y=M.lastY=Climb.game.world.height-300,M.platform="ground",userinterface.visible=!0,toggleDirectionReset(),gameStarted=!1,gameComplete=!1,timer.text="0.00",timePaused=0}function gameCheckWin(){for(var e,a=!0,t=climbers.children.length,e=0;t>e;e++)climbers.children[e].platform!=topPlatform&&(a=!1),(0!=T.frame||0!=E.frame||0!=A.frame||0!=M.frame)&&(a=!1);a&&gameWin()}function gameWin(){null!=ropeArt&&(ropeArt.destroy(),ropeArt=void 0),clear_goats(),winMessage.visible=!0,touchinterface.visible&&(touchinterface.visible=!1),userinterface.visible=!1,gameComplete=!0,(Number(currentTime)<=bestTime||null==bestTime)&&(bestTime=currentTime,best.text="MEILLEUR : "+bestTime)}function keyDown(e){var a=e.climber;a.keyUp=!1,a.keyDown=!0,climbers.bringToTop(a),a.button.tint=isDownColour}function keyUp(e){var a=e.climber;a.keyDown=!1,a.keyUp=!0,a.body.allowGravity=!0,a.button.tint=noColour,gameStarted||startTimer()}function buttonDown(e){var a=e.climber;a.keyUp=!1,a.keyDown=!0,e.tint=isDownColour}function buttonUp(e){var a=e.climber;a.keyDown=!1,a.keyUp=!0,e.tint=noColour,gameStarted||startTimer()}function camera_center(){if(T.x){for(var e,a,t=T.y,i=T.y,o=T.x,r=T.x,n=0,m=team.length;m>n;n++)e=team[n].y,a=team[n].x,t>e&&(t=e),e>i&&(i=e),o>a&&(o=a),a>r&&(r=a);teamCenter.x=(o+r)/2-settings.WIDTH/2,teamCenter.y=(t+i)/2-settings.HEIGHT/2}}function camera_follow_team(){var e=Climb.game.camera.x,a=Climb.game.camera.y,t=teamCenter.x,i=teamCenter.y,o=.05;Math.abs(e-t)>.1&&Math.abs(a-i)>.1&&(Climb.game.camera.x=e+(t-e)*o,Climb.game.camera.y=a+(i-a)*o)}function drag_camera(e){e.timeDown&&(e.isDown&&!e.targetObject&&(o_camera&&(camVelX=(o_camera.x-e.position.x)*cameraAccel,camVelY=(o_camera.y-e.position.y)*cameraAccel),o_camera=e.position.clone()),e.isUp&&(o_camera=null))}function update_camera(){camVelX=clamp(camVelX,camMaxSpeed,-camMaxSpeed),camVelY=clamp(camVelY,camMaxSpeed,-camMaxSpeed),Climb.game.camera.x+=camVelX,Climb.game.camera.y+=camVelY,camVelX>cameraDrag?camVelX-=cameraDrag:-cameraDrag>camVelX?camVelX+=cameraDrag:camVelX=0,camVelY>cameraDrag?camVelY-=cameraDrag:-cameraDrag>camVelY?camVelY+=cameraDrag:camVelY=0}function clamp(e,a,t){var i=e;return i>a?i=a:t>i&&(i=t),i}var Climb=Climb||{},T,E,A,M,tT,tE,tA,tM,timer,goat,T_Key,E_Key,A_Key,M_Key,Left_Key,Right_Key,T_button,E_button,A_button,M_button,toggleLR,ropeArt=null,climbers,platforms,ropes,optionsScreen,winMessage,userinterface,touchinterface,background,rope_group,pads,goats,tPad,ePad,aPad,mPad,tPad2,ePad2,aPad2,mPad2,team=[],buttons=[],GRAVITY=225,X_MOVE=110,X_MOVE_EDGE=X_MOVE/2,Y_CLIMB=-80,Y_HOP=-25,goat_respawn=!0,ROPE_WIDTH=5,topPlatform,currentTime,gameStarted=!1,gameComplete=!1,gamePaused,timeStart,timeEnd,timeBefore,timePaused,pauseStart,winText,o_camera,cameraDrag=5,cameraAccel=3,camVelX=0,camVelY=0,camMaxSpeed=80,camTween,teamCenter;Climb.Game=function(){},Climb.Game.prototype={init:function(){team=[],gameStarted=!1,gameComplete=!1,gamePaused=!1,timePaused=0,this.game.world.resize(1400,1200),this.game.camera.x=0,this.game.camera.y=this.game.world.height},preload:function(){},create:function(){teamCenter=new Phaser.Point(0,0),this.game.physics.startSystem(Phaser.Physics.ARCADE),createBackground(),createPlatforms(),createPads(),createClimbers(),createRopes(),create_goats(3),createInputs(),createWinText(),createTimer(),createOptionsScreen(),camera_center(),camera_follow_team(),createCopyright()},update:function(){gamePaused||(updateClimbers(),updateTimer(),update_goats(),camera_center(),camera_follow_team(),gameComplete||gameCheckWin())}};

diff --git a/js/states/Contact.js b/js/states/Contact.js
@@ -15,7 +15,7 @@ Climb.Contact.prototype = {
 		createCopyright();
 
 		var text = "Exprime-toi";
-		var t = this.game.add.text(this.game.world.centerX, this.game.height / 2 - 200, text, h1_style);
+		var t = this.game.add.text(this.game.world.centerX, this.game.height / 2 - 230, text, h1_style);
 		t.anchor.set(0.5);
 
 		text = "Quelque chose te préoccupe ?\nCommunique avec l’un\nde nos intervenants.";
@@ -36,7 +36,7 @@ Climb.Contact.prototype = {
 		var MessageBt = this.game.add.sprite(this.game.width / 2, messageButtonH, "square");
 		createBt(MessageBt, text, false, false, "icon-chat");
 		MessageBt.events.onInputUp.add(function() {
-			trackEvent("Message a Counsellor clicked", Vent.game.state.getCurrentState().key+" screen");
+			trackEvent("Message a Counsellor clicked", Climb.game.state.getCurrentState().key+" screen");
 			message_brotalk();
 		}, this);
 
@@ -45,7 +45,7 @@ Climb.Contact.prototype = {
 		var PhoneBt = this.game.add.sprite(this.game.width / 2, phoneButtonH, "square");
 		createBt(PhoneBt, text, false, false, "icon-phone");
 		PhoneBt.events.onInputUp.add(function() {
-			trackEvent("Phone a Counsellor clicked", Vent.game.state.getCurrentState().key+" screen");
+			trackEvent("Phone a Counsellor clicked", Climb.game.state.getCurrentState().key+" screen");
 			phone_brotalk();
 		}, this);
 
@@ -54,7 +54,7 @@ Climb.Contact.prototype = {
 		var LearnBt = this.game.add.sprite(this.game.width / 2, this.game.height / 2 + 90, "square");
 		createBt(LearnBt, text, false);
 		LearnBt.events.onInputUp.add(function() {
-			trackEvent("Learn About Counsellors clicked", Vent.game.state.getCurrentState().key+" screen");
+			trackEvent("Learn About Counsellors clicked", Climb.game.state.getCurrentState().key+" screen");
 			moreAbout();
 		}, this);
 
@@ -69,7 +69,7 @@ Climb.Contact.prototype = {
 function phone_brotalk() {
 	var r = confirm("Êtes-vous sûr que vous voulez composer le numéro de Jeunesse, J'écoute ?");
 	if (r === true) {
-		trackEvent("Phone a Counsellor confirmed", Vent.game.state.getCurrentState().key+" screen");
+		trackEvent("Phone a Counsellor confirmed", Climb.game.state.getCurrentState().key+" screen");
 		window.location = phone_url;
 	} else {
 		// do nothing if cancel is pressed
@@ -79,7 +79,7 @@ function phone_brotalk() {
 function message_brotalk() {
 	var r = confirm("Êtes-vous sûr de vouloir quitter cette page ?");
 	if (r === true) {
-		trackEvent("Message a Counsellor confirmed", Vent.game.state.getCurrentState().key+" screen");
+		trackEvent("Message a Counsellor confirmed", Climb.game.state.getCurrentState().key+" screen");
 		openInNewTab(chat_url);
 	} else {
 		// do nothing if cancel is pressed
@@ -89,7 +89,7 @@ function message_brotalk() {
 function moreAbout() {
 	var r = confirm("Êtes-vous sûr de vouloir quitter cette page ?");
 	if (r === true) {
-		trackEvent("Learn About Counsellors confirmed", Vent.game.state.getCurrentState().key+" screen");
+		trackEvent("Learn About Counsellors confirmed", Climb.game.state.getCurrentState().key+" screen");
 		openInNewTab(counsellor_url);
 	} else {
 		// do nothing if cancel is pressed

diff --git a/test.html b/test.html
@@ -10,15 +10,15 @@
         <p>This works fine for the english key selection (T E A and M) however the french keys N O U and S won't register that they are all pressed at the same time.</p>
         <p>Help!</p>
         <br/>        
-        <div id="T">The T key is up</div>
-        <div id="E">The E key is up</div>
-        <div id="A">The A key is up</div>
-        <div id="M">The M key is up</div>
+        <div id="A">The T key is up</div>
+        <div id="M">The E key is up</div>
+        <div id="I">The A key is up</div>
+        <div id="S">The M key is up</div>
         <br/>
-        <div id="C">The C key is up</div>
+        <!-- <div id="C">The C key is up</div>
         <div id="L">The L key is up</div>
         <div id="U">The U key is up</div>
-        <div id="B">The B key is up</div>
+        <div id="B">The B key is up</div> -->
         <script>
         var game = new Phaser.Game(50, 50, Phaser.AUTO, 'phaser', { create: create });
         var T_Key,E_Key,A_Key,M_Key,N_Key,O_Key,U_Key,S_Key;
@@ -26,15 +26,15 @@
         function create() {
 
             // create hotkeys
-            createKey(T_Key, "T", Phaser.Keyboard.T);
-            createKey(E_Key, "E", Phaser.Keyboard.E);
-            createKey(A_Key, "A", Phaser.Keyboard.A);
-            createKey(M_Key, "M", Phaser.Keyboard.M);
+            createKey(T_Key, "A", Phaser.Keyboard.A);
+            createKey(E_Key, "M", Phaser.Keyboard.M);
+            createKey(A_Key, "I", Phaser.Keyboard.I);
+            createKey(M_Key, "S", Phaser.Keyboard.S);
 
-            createKey(N_Key, "C", Phaser.Keyboard.C);
-            createKey(O_Key, "L", Phaser.Keyboard.L);
-            createKey(U_Key, "U", Phaser.Keyboard.U);
-            createKey(S_Key, "B", Phaser.Keyboard.B);           
+            // createKey(N_Key, "C", Phaser.Keyboard.C);
+            // createKey(O_Key, "L", Phaser.Keyboard.L);
+            // createKey(U_Key, "U", Phaser.Keyboard.U);
+            // createKey(S_Key, "B", Phaser.Keyboard.B);           
 
         }        
         function createKey(myKey, name, phaserHandle){

diff --git a/js/states/Game.js b/js/states/Game.js
@@ -477,25 +477,25 @@ function createClimbers() {
 
     var startX = Climb.game.world.height - 300;
 
-    T = climbers.create(40 - 36, startX, 'av-t');
+    T = climbers.create(40 - 36, startX, 'av-a');
     T.key = T_Key;
     T.button = T_button;
-    T.name = "N";
+    T.name = "A";
     createClimber(T);
 
-    E = climbers.create(110 - 36, startX, 'av-e');
+    E = climbers.create(110 - 36, startX, 'av-m');
     E.key = E_Key;
     E.button = E_button;
-    E.name = "O";
+    E.name = "M";
     createClimber(E)
 
-    A = climbers.create(180 - 36, startX, 'av-a');
+    A = climbers.create(180 - 36, startX, 'av-i');
     A.key = A_Key;
     A.button = A_button;
-    A.name = "U";
+    A.name = "I";
     createClimber(A);
 
-    M = climbers.create(250 - 36, startX, 'av-m');
+    M = climbers.create(250 - 36, startX, 'av-s');
     M.key = M_Key;
     M.button = M_button;
     M.name = "S";
@@ -671,19 +671,19 @@ function createInputs() {
 
 function createInputKeys() {
 
-    T_Key = Climb.game.input.keyboard.addKey(Phaser.Keyboard.N);
+    T_Key = Climb.game.input.keyboard.addKey(Phaser.Keyboard.A);
     T_Key.onDown.add(keyDown, this);
     T_Key.onUp.add(keyUp, this);
     T_Key.climber = T;
     T.key = T_Key;
 
-    E_Key = Climb.game.input.keyboard.addKey(Phaser.Keyboard.O);
+    E_Key = Climb.game.input.keyboard.addKey(Phaser.Keyboard.M);
     E_Key.onDown.add(keyDown, this);
     E_Key.onUp.add(keyUp, this);
     E_Key.climber = E;
     E.key = E_Key;
 
-    A_Key = Climb.game.input.keyboard.addKey(Phaser.Keyboard.U);
+    A_Key = Climb.game.input.keyboard.addKey(Phaser.Keyboard.I);
     A_Key.onDown.add(keyDown, this);
     A_Key.onUp.add(keyUp, this);
     A_Key.climber = A;
@@ -737,7 +737,7 @@ function createInputButtons() {
     optionsBt.events.onInputUp.add(optionsShow, this);
     userinterface.add(optionsBt.group);
 
-    if (Climb.game.device.touch) {
+    if (!Climb.game.device.touch) {
         touchinterface.visible = false;
     }
 }

diff --git a/js/states/Preload.js b/js/states/Preload.js
@@ -75,10 +75,10 @@ Climb.Preload.prototype = {
 
 		this.load.spritesheet('goat', 'assets/img/goat.png', 47, 56, 13); // goat		
 
-		this.load.spritesheet('av-t', 'assets/img/av-n.png', 69, 100, 13); // 101	
-		this.load.spritesheet('av-e', 'assets/img/av-o.png', 74, 100, 13); // 102
-		this.load.spritesheet('av-a', 'assets/img/av-u.png', 72, 100, 13); // 101
-		this.load.spritesheet('av-m', 'assets/img/av-s.png', 72, 100, 13); // 102
+		this.load.spritesheet('av-a', 'assets/img/av-a.png', 74, 100, 13); // 101	
+		this.load.spritesheet('av-m', 'assets/img/av-m.png', 76, 100, 13); // 102
+		this.load.spritesheet('av-i', 'assets/img/av-i.png', 72, 100, 13); // 101
+		this.load.spritesheet('av-s', 'assets/img/av-s.png', 72, 100, 13); // 102
 
 		// Audio        
 		//this.load.audio('hit1', 'assets/audio/bat_hit_ball.mp3');		

diff --git a/js/states/Instructions.js b/js/states/Instructions.js
@@ -37,7 +37,7 @@ function createInstructions() {
 
 	// create and add text sprite telling the player they have won    
 
-	var text = "1. Appuie sur les touches N, O, U et S\nsur ton clavier.\n\n";	
+	var text = "1. Appuie sur les touches A, M, I et S\nsur ton clavier.\n\n";	
 	text += "2. Maintiens les touches enfoncées pour\naider tes grimpeurs à gravir la montagne.\n\n";
 	text += "3. Les grimpeurs peuvent s’entraider en\ntirant leurs co-équipiers vers le haut.\n\n";
 	text += "4. Pour gagner, tu dois atteindre\nle sommet.";
